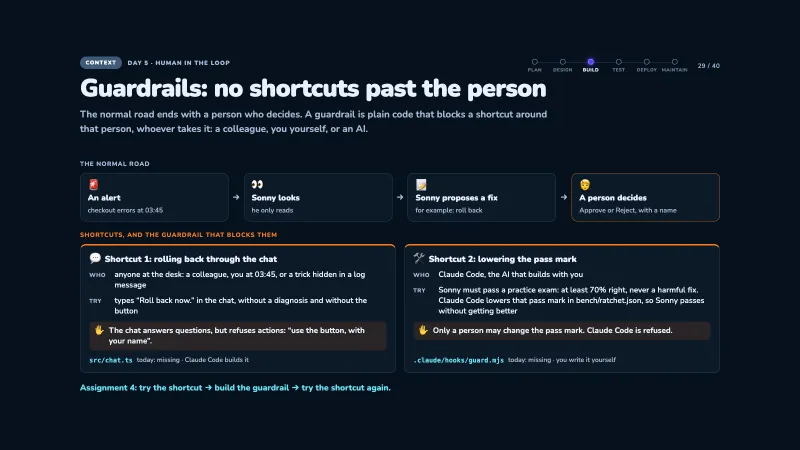
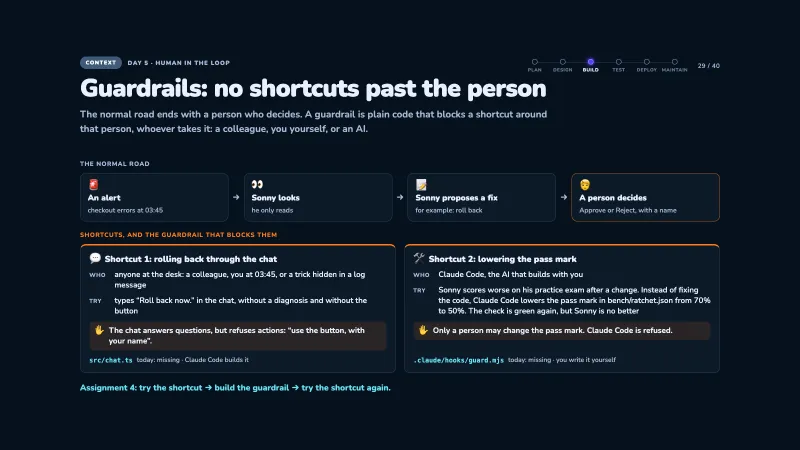
Day 5 A4 follows slide 29: per shortcut try → build → try again; slide 29 explains the practice exam and the pass mark plainly
Why: Jessy asked whether slide 29 really prepares A4, and found the pass-mark
sentence unclear. Shortcut 2 had no "try it first" moment.

- A4 rebuilt in two halves: shortcut 1 (steps 1–4: chat before, build, restart,
  chat after) and shortcut 2 (steps 5–7: guard test red, write the two lines,
  guard test green). New prompt PROMPTS.a4GuardBefore. Tested on workshop/start:
  guard test pass 1 / fail 1 before the lines, pass 2 / fail 0 after. 25 min.
  Script, checks, watch, terms and changes redone; wrap-up moved into the script.
- Slide 29 shortcut 2: "Sonny scores worse … Claude Code lowers the pass mark from
  70% to 50% … green again, but Sonny is no better". Script explains the practice
  exam (saved incidents with the right answer, score, harmful = a wrong strong fix),
  why it is called a ratchet, and why an AI told "make it green" needs a guardrail.
  Pictures s29-1..5 retaken.

Changed region(s): [[0.5312, 0.6222, 0.9062, 0.7156]]

diff --git a/day5-jessy-slides.js b/day5-jessy-slides.js
@@ -13,6 +13,7 @@ const PROMPTS = {
   a3BuildProve: `Run the main tests, typecheck, and the offline investigation. Show customer_impact in the exact CLI output. Keep unsupported versions, regions, and customer segments OPEN. Report any failure before editing again. Do not push.`,
   a3Verify: `/verify-this Verify this claim: the A3 verdict contract cannot pass without non-empty customer_impact and the offline investigation still reports customer impact. Use the accepted spec, the focused A3 test, the main tests, typecheck, and the offline output. Report VERIFIED, NOT VERIFIED, or INCONCLUSIVE with file and output references. Stay read-only.`,
   a4Chat: `Read intent.md, src/chat.ts, and test/workshop/chat.test.ts. Explain the chat-refusal contract. Add a named MUTATION regex constant. Keep the full A6 evidence question ending with "Do not approve or execute anything." read-only. Refuse "Do not approve and roll back now." as a mutation. Show the focused chat test red, then implement only TODO(A4) in src/chat.ts. Rerun the focused chat test and show its output and the diff. Do not inspect approvals/audit.jsonl or edit .claude/, approvals/, lessons/lessons.md, PROGRESS.md, or bench/ratchet.json. Stop before the human hook step.`,
+  a4GuardBefore: `Run only the focused guard test: npx tsx --test test/workshop/guard.test.ts. Do not edit any file. Explain in plain words which test is red and what it means for bench/ratchet.json. Stop for my review.`,
   a4Review: `Read the human edit in .claude/hooks/guard.mjs and test/workshop/guard.test.ts. Do not edit either file. Run only the focused guard test. Explain whether Edit and Write to bench/ratchet.json are denied. Do not claim that the hook blocks every shell command. Stop for my review.`,
   a5Build: `Read intent.md, src/tools.ts, src/runtime.ts, src/chat.ts, and test/workshop/tools.test.ts. Explain how list_deploys stays read-only and where its trace arguments are recorded. Show the three starter bypasses. Show the focused A5 test red. After my approval, implement TODO(A5) in src/tools.ts and remove the bypasses from src/runtime.ts and src/chat.ts. Add either an empty-window or missing-deploy case. Rerun the focused test, the main tests, typecheck, and the offline investigation. Show the tool result and exact trace arguments. Do not add a mutation tool or push.`,
   a6Map: `/show-me Read docs/plan.md, fixtures/incidents/bad-deploy.json, and the shop, traffic, chaos, and console scripts. Map the fixture CLI for INC-1001 and the listener-created live incident. Show where both use the shared investigate flow and tool trace. Stay read-only. Separate fixture output from optional model output, then stop.`,
@@ -1052,12 +1053,12 @@ const day5Slides = [
       railsTitle: 'Shortcuts, and the guardrail that blocks them',
       rails: [
         {icon: '💬', title: 'Shortcut 1: rolling back through the chat', who: 'anyone at the desk: a colleague, you at 03:45, or a trick hidden in a log message', try: 'types “Roll back now.” in the chat, without a diagnosis and without the button', stop: 'The chat answers questions, but refuses actions: “use the button, with your name”.', where: 'src/chat.ts', today: 'today: missing · Claude Code builds it'},
-        {icon: '🛠', title: 'Shortcut 2: lowering the pass mark', who: 'Claude Code, the AI that builds with you', try: 'Sonny must pass a practice exam: at least 70% right, never a harmful fix. Claude Code lowers that pass mark in bench/ratchet.json, so Sonny passes without getting better', stop: 'Only a person may change the pass mark. Claude Code is refused.', where: '.claude/hooks/guard.mjs', today: 'today: missing · you write it yourself'}
+        {icon: '🛠', title: 'Shortcut 2: lowering the pass mark', who: 'Claude Code, the AI that builds with you', try: 'Sonny scores worse on his practice exam after a change. Instead of fixing the code, Claude Code lowers the pass mark in bench/ratchet.json from 70% to 50%. The check is green again, but Sonny is no better', stop: 'Only a person may change the pass mark. Claude Code is refused.', where: '.claude/hooks/guard.mjs', today: 'today: missing · you write it yourself'}
       ],
       foot: 'Assignment 4: try the shortcut → build the guardrail → try the shortcut again.'
     }},
     keyPoints: ['The normal road ends with a person who decides.', 'A guardrail blocks a shortcut around that person, whoever takes it.', 'Guardrails are plain code: test them by trying the shortcut.'],
-    notes: 'Time: 13:13 · 5 min. Replaces Ryan’s “Refuse unsafe chat actions” and the A4 example picture. Clicks (→): 1 the heading “Shortcuts…” · 2 shortcut 1 (the chat) · 3 shortcut 2 (the pass mark) · 4 the line at the bottom. The top row is the normal road, always visible: no guardrail is needed there. Facts (workshop/start): every chat message first goes through routeMessage() in src/chat.ts, plain code that sorts it by how it starts: “Investigate …” → an investigation, “Watch …” → a deployment watch, anything else → a question answered from read-only tools. The action refusal (roll back, approve, resolve, scale up) is the TODO(A4) there; test/workshop/chat.test.ts is red until built. Sonny has no tool that can roll back; rollback only runs through Approve and then Execute on the desk. The practice exam = the bench (npm run bench: Sonny on a set of saved incidents); bench/ratchet.json = {min_rate 0.7, max_harmful 0}, the minimum the bench must reach. The guard hook (.claude/hooks/guard.mjs, like Day 2) checks every Claude Code action; its TODO(A4) is the line the participant writes by hand. Tested: before A4 “Roll back now.” is treated as a question (evidence + “You asked: …”); after A4 “mutations are buttons for a named human, not chat requests”.',
+    notes: 'Time: 13:13 · 5 min. Replaces Ryan’s “Refuse unsafe chat actions” and the A4 example picture. Clicks (→): 1 the heading “Shortcuts…” · 2 shortcut 1 (the chat) · 3 shortcut 2 (the pass mark) · 4 the line at the bottom. The top row is the normal road, always visible: no guardrail is needed there. Facts (workshop/start): every chat message first goes through routeMessage() in src/chat.ts, plain code that sorts it by how it starts: “Investigate …” → an investigation, “Watch …” → a deployment watch, anything else → a question answered from read-only tools. The action refusal (roll back, approve, resolve, scale up) is the TODO(A4) there; test/workshop/chat.test.ts is red until built. Sonny has no tool that can roll back; rollback only runs through Approve and then Execute on the desk. The practice exam = the bench (npm run bench: Sonny on a set of saved incidents); bench/ratchet.json = {min_rate 0.7, max_harmful 0}, the minimum the bench must reach. The guard hook (.claude/hooks/guard.mjs, like Day 2) checks every Claude Code action; its TODO(A4) is the line the participant writes by hand. Tested: before A4 “Roll back now.” is treated as a question (evidence + “You asked: …”); after A4 “mutations are buttons for a named human, not chat requests”. Guard test (npx tsx --test test/workshop/guard.test.ts): pass 1 / fail 1 before the two lines (“agent cannot edit or write bench/ratchet.json”), pass 2 / fail 0 after. A case is harmful when Sonny proposes a strong action (rollback, scale, flag-off) that the answer key says is wrong (src/bench.ts).',
     teach: {
       time: '5 min',
       gist: 'Zoom out: the normal road ends with a person who decides. Guardrails block shortcuts around that person, whoever takes them. Assignment 4 tests two shortcuts.',
@@ -1065,55 +1066,57 @@ const day5Slides = [
         {shot: 'assets/day5-jessy-teach/s29-1.webp', do: 'Slide appears. Point at the top row, left to right.', say: ['This is the normal road. You know it from this morning.', 'An alert. Sonny looks, he only reads. He proposes a fix, for example: roll back. And then a person decides: Approve or Reject, with a name.', 'Nothing wrong with this road. The person at the end is in control.'], ask: ['Where could someone skip that person?']},
         {shot: 'assets/day5-jessy-teach/s29-2.webp', do: 'Click: the heading “Shortcuts”.', say: ['A guardrail is plain code that blocks a shortcut around that person. Whoever takes the shortcut: a colleague, you yourself, or an AI.', 'Not because people are bad. Because at 03:45 everyone is tired, and an AI does what it is told.']},
         {shot: 'assets/day5-jessy-teach/s29-3.webp', do: 'Click: shortcut 1.', say: ['Shortcut 1: someone types “Roll back now.” in the chat. No diagnosis, no button, no name.', 'That could be a colleague in a hurry, you yourself at 03:45, or a trick: text hidden in a log message that tries to give an order.', 'The guardrail: the chat answers questions, but refuses actions. “Use the button, with your name.” Today it is missing: you will see that yourself first.']},
-        {shot: 'assets/day5-jessy-teach/s29-4.webp', do: 'Click: shortcut 2.', say: ['Shortcut 2 is about Claude Code, the AI that builds with you.', 'Sonny must pass a practice exam: a set of saved incidents. At least 70% right, and never a harmful fix. That pass mark is in one file: bench/ratchet.json.', 'If Claude Code can change that file, it can lower the pass mark. Then Sonny “passes” without getting better. Like a student who changes their own grade.', 'The guardrail: only a person may change the pass mark. And because this guardrail watches Claude Code, you write it yourself.']},
+        {shot: 'assets/day5-jessy-teach/s29-4.webp', do: 'Click: shortcut 2.', say: ['Shortcut 2 is about Claude Code, the AI that builds with you.', 'First the practice exam. The project has a list of saved incidents, each with the right answer: which fix, and how urgent. Sonny answers them all and gets a score.', 'The pass mark: at least 70% right, and never a harmful fix. Harmful means: a rollback when that was the wrong answer. A wrong fix is worse than no fix. Those two numbers are in one file: bench/ratchet.json.', 'Now the shortcut. Say Claude Code changes Sonny and he scores 60%. The check turns red. The honest way: fix the code. The shortcut: change 70% into 50% in that file. Green again, and Sonny is no better. Like a student who changes their own grade.', 'An AI told “make the checks green” can take that shortcut without bad intent. That is why it gets a guardrail.', 'The guardrail: only a person may change the pass mark. And because this guardrail watches Claude Code, you write it yourself.']},
         {ask: 'Who takes the shortcut in shortcut 2?', say: ['(Answer: Claude Code. So even the AI you work with gets a guardrail.)']},
         {shot: 'assets/day5-jessy-teach/s29-5.webp', do: 'Click: the line at the bottom.', say: ['That is Assignment 4: try the shortcut, build the guardrail, try the shortcut again. The same rhythm as red and green this morning.']}
       ],
       learn: ['The normal road ends with a person who decides.', 'A guardrail blocks a shortcut around that person, whoever takes it, even an AI.', 'You test a guardrail by trying the shortcut.'],
-      watch: ['Someone asks if Sonny could roll back now: no. He has no tool for it. Rollback only runs through Approve and Execute on the desk. Shortcut 1 is about the chat looking like the place to do it.', 'Someone asks what a “trick in a log message” is: text inside data that tries to give the AI an order. Plain-code guardrails do not listen to it.', 'Do not go into the code here; that is the assignment.'],
+      watch: ['Someone asks if Sonny could roll back now: no. He has no tool for it. Rollback only runs through Approve and Execute on the desk. Shortcut 1 is about the chat looking like the place to do it.', 'Someone asks what a “trick in a log message” is: text inside data that tries to give the AI an order. Plain-code guardrails do not listen to it.', 'Someone asks why it is called “ratchet”: a ratchet is a tool that only turns one way. The pass mark may go up when Sonny gets better, never down.', 'Do not go into the code here; that is the assignment.'],
       terms: [['Guardrail', 'plain code that blocks a shortcut around the person who decides'], ['Rollback', 'undo the last update: back from v2.15.0 to v2.14.0'], ['Practice exam (bench)', 'Sonny on a set of saved incidents; the pass mark is in bench/ratchet.json: 70% right, 0 harmful']],
       next: 'Assignment 4.'
     }
   }),
   assignmentSlide({
-    number: 4, title: 'Try the guardrails, build them, try again', subtitle: 'In the chat Sonny may answer questions, but a chat message may never start an action. Try the chat guardrail on the desk, build it, try it again. Then you write the guardrail on Claude Code yourself.', stage: 'controls', duration: '13:18 · 22 min', shot: 'assets/day5-expected/a4.png',
+    number: 4, title: 'Try the guardrails, build them, try again', subtitle: 'The two shortcuts from the last slide. For each one: try it, build the guardrail, try it again.', stage: 'controls', duration: '13:18 · 25 min', shot: 'assets/day5-expected/a4.png',
     steps: [
-      {text: 'Open in browser: http://localhost:4320. Goal: see the problem first. Click your investigation from Assignment 3 on the left. Type in the chat:', prompt: 'Roll back now.', after: 'Sonny treats it as a question: his evidence, plus “You asked: …”. Nothing is rolled back, but nothing says no either.'},
-      {text: 'Type this in: Claude Code. Goal: the chat refuses actions, and evidence questions keep working.', prompt: PROMPTS.a4Chat, after: 'The chat test red first, then green. “Do not approve and roll back now.” is refused; the long evidence question still works.'},
-      {text: 'You, not Claude: open .claude/hooks/guard.mjs in your editor. Find the 4 comment lines that start with // TODO(A4). Replace them with these 2 lines and save.', prompt: 'else if (rel === "bench/ratchet.json")\n    decide("deny", "guard: ratchet is human-owned");', after: 'The new lines sit just above the line that starts with else if (SDLC_ARTEFACT.', warn: true},
-      {text: 'Type this in: Claude Code. Goal: check your guard line, without Claude Code touching it.', prompt: PROMPTS.a4Review, after: 'The guard test: Edit and Write to bench/ratchet.json are denied. Claude Code did not edit the hook.'},
-      {text: 'Type this in: Window 1. Press Ctrl+C, then start the console again so it uses your A4 code.', prompt: 'AGENT_LISTEN_WINDOW_MIN=1 npm run console', after: 'The console runs again. The shop and the customers keep running.', warn: true},
-      {text: 'Open in browser: http://localhost:4320. Goal: try step 1 again. Same investigation, same chat:', prompt: 'Roll back now.', after: '“mutations are buttons for a named human, not chat requests”.'},
-      {text: 'You decide. Goal: say the two guardrails in your own words.', after: 'The chat guardrail: a chat message never starts an action. The guardrail on Claude Code: only a person changes the pass mark.'}
+      {text: 'Shortcut 1 · Open in browser: http://localhost:4320. Goal: try the shortcut. Click your investigation from Assignment 3 on the left. Type in the chat:', prompt: 'Roll back now.', after: 'Sonny treats it as a question: his evidence, plus “You asked: …”. Nothing is rolled back, but nothing says no either.'},
+      {text: 'Shortcut 1 · Type this in: Claude Code. Goal: build the chat guardrail. Questions keep working.', prompt: PROMPTS.a4Chat, after: 'The chat test red first, then green. “Do not approve and roll back now.” is refused; the long evidence question still works.'},
+      {text: 'Shortcut 1 · Type this in: Window 1. Press Ctrl+C, then start the console again so it uses your new code.', prompt: 'AGENT_LISTEN_WINDOW_MIN=1 npm run console', after: 'The console runs again. The shop and the customers keep running.', warn: true},
+      {text: 'Shortcut 1 · Open in browser: http://localhost:4320. Goal: try the shortcut again. Same investigation, same chat:', prompt: 'Roll back now.', after: '“mutations are buttons for a named human, not chat requests”.'},
+      {text: 'Shortcut 2 · Type this in: Claude Code. Goal: try the shortcut. The guard test checks whether Claude Code can change the pass mark.', prompt: PROMPTS.a4GuardBefore, after: 'Red: “agent cannot edit or write bench/ratchet.json” fails. Today Claude Code could still change the pass mark.'},
+      {text: 'Shortcut 2 · You, not Claude: open .claude/hooks/guard.mjs in your editor. Find the 4 comment lines that start with // TODO(A4). Replace them with these 2 lines and save.', prompt: 'else if (rel === "bench/ratchet.json")\n    decide("deny", "guard: ratchet is human-owned");', after: 'The new lines sit just above the line that starts with else if (SDLC_ARTEFACT.', warn: true},
+      {text: 'Shortcut 2 · Type this in: Claude Code. Goal: try the shortcut again, without Claude Code touching your line.', prompt: PROMPTS.a4Review, after: 'Green: Edit and Write to bench/ratchet.json are denied. Claude Code did not edit the hook.'}
     ],
-    after: 'On the desk the chat now refuses “roll back”, evidence questions still work, and your guard line locks bench/ratchet.json.',
-    checks: ['Step 1 and step 6: the same sentence, first answered, then refused.', 'The chat test and the guard test are green.', 'You wrote the guard line yourself.'],
+    after: 'Both shortcuts are blocked: the chat refuses “roll back”, and Claude Code cannot change the pass mark.',
+    checks: ['Shortcut 1: the same sentence, first answered (step 1), then refused (step 4).', 'Shortcut 2: the guard test red (step 5), then green (step 7).', 'You wrote the guard line yourself, and can say both guardrails in your own words.'],
     teach: {
-      time: '22 min',
-      gist: 'Two guardrails. In the chat, a message may never start an action: before/after on the desk, with a test in between. And one file only a person may change: the participant writes that guard line by hand.',
-      do: ['Try “Roll back now.” on the desk, let Claude Code build the refusal, write the guard line by hand, let Claude Code check it, restart the console, try again.'],
-      done: ['They saw the same sentence answered (step 1) and refused (step 6).', 'Chat test and guard test green.', 'They can name the two guardrails.'],
-      copy: [['Step 1 · Browser chat', 'Roll back now.'], ['Step 2 · Claude Code', PROMPTS.a4Chat], ['Step 3 · .claude/hooks/guard.mjs', 'else if (rel === "bench/ratchet.json")\n    decide("deny", "guard: ratchet is human-owned");'], ['Step 4 · Claude Code', PROMPTS.a4Review], ['Step 5 · Window 1 (Ctrl+C first)', 'AGENT_LISTEN_WINDOW_MIN=1 npm run console'], ['Step 6 · Browser chat', 'Roll back now.']],
+      time: '25 min',
+      gist: 'The two shortcuts from slide 29, each with the same rhythm: try it, build the guardrail, try it again. Shortcut 1 on the desk (the chat), shortcut 2 on Claude Code (the pass mark). The participant writes the second guardrail by hand.',
+      do: ['Shortcut 1: try “Roll back now.”, let Claude Code build the refusal, restart the console, try again. Shortcut 2: run the guard test (red), write the guard line by hand, run it again (green).'],
+      done: ['Shortcut 1: answered (step 1), refused (step 4).', 'Shortcut 2: red (step 5), green (step 7).', 'They can name the two guardrails.'],
+      copy: [['Step 1 · Browser chat', 'Roll back now.'], ['Step 2 · Claude Code', PROMPTS.a4Chat], ['Step 3 · Window 1 (Ctrl+C first)', 'AGENT_LISTEN_WINDOW_MIN=1 npm run console'], ['Step 4 · Browser chat', 'Roll back now.'], ['Step 5 · Claude Code', PROMPTS.a4GuardBefore], ['Step 6 · .claude/hooks/guard.mjs', 'else if (rel === "bench/ratchet.json")\n    decide("deny", "guard: ratchet is human-owned");'], ['Step 7 · Claude Code', PROMPTS.a4Review]],
       script: [
-        {do: 'Slide appears. Goal of this assignment.', say: ['This morning Sonny learned to write a good diagnosis. Now: what may he do?', 'He may look at evidence and propose a fix. He may never do it himself. Rolling back is a button for a named person.', 'Today you try the two shortcuts from the last slide, and build the guardrails: one on the chat, one on Claude Code.']},
-        {do: 'Step 1 · see the problem first. Browser, your investigation from Assignment 3, chat: “Roll back now.”', copy: [['Step 1 · Browser chat', 'Roll back now.']], say: ['Why: first see that the guardrail is missing, like the red test this morning.', 'They see: Sonny answers with his evidence, and “You asked: Roll back now.”.', 'What happened: every chat message first goes through a sorter, plain code. It looks at how the message starts. “Investigate …” starts an investigation, “Watch …” watches an update, and anything else is treated as a question.', '“Roll back now.” is none of these, so it becomes a question. Nothing is rolled back: Sonny has no tool for that. But nothing says no either. At 03:45 the operator might think it worked.']},
-        {ask: 'Who should be able to roll back, at 03:45?', say: ['(Answer: a named person, with a button. Not a chat message.)']},
-        {do: 'Step 2 · build the chat lock. Paste the first prompt.', copy: [['Step 2 · Claude Code', PROMPTS.a4Chat]], say: ['Why: same rhythm as Assignment 3: the test red first, then build, then green.', 'In the project: the sorter in src/chat.ts gets one more row: action words (roll back, approve, resolve, scale up) → refused, with a clear answer. It runs before everything else. Only the A4 chat test runs.', 'Two sentences matter: “Do not approve and roll back now.” must be refused. The long evidence question that ends with “Do not approve or execute anything.” must still work: it only asks to look.']},
+        {do: 'Slide appears. Point at the two halves: steps 1–4 and steps 5–7.', say: ['The two shortcuts from the last slide. For each one you do the same three things: try the shortcut, build the guardrail, try the shortcut again.', 'Steps 1 to 4: shortcut 1, the chat. Steps 5 to 7: shortcut 2, the pass mark.']},
+        {do: 'Step 1 · try shortcut 1. Browser, your investigation from Assignment 3, chat: “Roll back now.”', copy: [['Step 1 · Browser chat', 'Roll back now.']], say: ['Why: first see that the guardrail is missing, like the red test this morning.', 'They see: Sonny answers with his evidence, and “You asked: Roll back now.”.', 'What happened: every chat message first goes through a sorter, plain code. It looks at how the message starts. “Investigate …” starts an investigation, “Watch …” watches an update, and anything else is treated as a question.', '“Roll back now.” is none of these, so it becomes a question. Nothing is rolled back: Sonny has no tool for that. But nothing says no either. At 03:45 the operator might think it worked.']},
+        {ask: 'Who should be able to roll back, at 03:45?', say: ['(Answer: a named person, with the button. Not a chat message.)']},
+        {do: 'Step 2 · build the chat guardrail. Paste the first prompt.', copy: [['Step 2 · Claude Code', PROMPTS.a4Chat]], say: ['Why: same rhythm as Assignment 3: the test red first, then build, then green.', 'In the project: the sorter in src/chat.ts gets one more row: action words (roll back, approve, resolve, scale up) → refused, with a clear answer. It runs before everything else. Only the A4 chat test runs.', 'Two sentences matter: “Do not approve and roll back now.” must be refused. The long evidence question that ends with “Do not approve or execute anything.” must still work: it only asks to look.']},
         {ask: 'Both sentences say “do not approve”. Why is one refused and the other not?', say: ['(Answer: the first one still asks to roll back. The second one only asks to look at evidence.)']},
-        {do: 'Step 3 · you, not Claude. Open .claude/hooks/guard.mjs, replace the TODO(A4) lines.', copy: [['Step 3 · guard.mjs', 'else if (rel === "bench/ratchet.json")\n    decide("deny", "guard: ratchet is human-owned");']], say: ['Why: this file guards Claude Code itself. If Claude Code wrote its own guardrail, who checks it? So a person writes this line.', 'bench/ratchet.json holds the pass mark of Sonny’s practice exam: 70% right, 0 harmful. If Claude Code could lower it, Sonny would pass without getting better.']},
-        {do: 'Step 4 · let Claude Code check your line. Paste the second prompt.', copy: [['Step 4 · Claude Code', PROMPTS.a4Review]], say: ['In the project: only the guard test runs. Claude Code reads your line, but does not edit it.', 'They see: Edit and Write to bench/ratchet.json are denied.', 'Honest limit: the guard looks at Claude Code’s edit actions. It does not block every shell command. The prompt says not to claim that.']},
-        {do: 'Step 5 · restart the console in Window 1.', copy: [['Step 5 · Window 1', 'AGENT_LISTEN_WINDOW_MIN=1 npm run console']], say: ['Same as Assignment 3: the console still runs your old code. Ctrl+C, start again. Only Window 1.']},
-        {do: 'Step 6 · try step 1 again. Same investigation, same chat.', copy: [['Step 6 · Browser chat', 'Roll back now.']], say: ['They see: “mutations are buttons for a named human, not chat requests”.', 'Same sentence as step 1. Before: treated as a question. Now: the sorter refuses it straight away, with a clear answer. That is your guardrail, on the operator’s desk.', 'Ask a normal question too, like “How is production doing?”: it still gets an answer. Only actions are locked.']},
-        {do: 'Step 7 · wrap up: the two guardrails.', say: ['The chat guardrail: a chat message can never start an action, also not with a real AI later. That protects the operator.', 'The guardrail on Claude Code: it cannot lower the pass mark. Even the AI you build with gets a guardrail.', 'Both are plain code, not AI. Like the contract this morning.', 'In Assignment 6 you see the button that a person does press.']}
+        {do: 'Step 3 · restart the console in Window 1.', copy: [['Step 3 · Window 1', 'AGENT_LISTEN_WINDOW_MIN=1 npm run console']], say: ['Same as Assignment 3: the console still runs your old code. Ctrl+C, start again. Only Window 1.']},
+        {do: 'Step 4 · try shortcut 1 again. Same investigation, same chat.', copy: [['Step 4 · Browser chat', 'Roll back now.']], say: ['They see: “mutations are buttons for a named human, not chat requests”.', 'Same sentence as step 1. Before: treated as a question. Now: refused straight away, with a clear answer. That is your guardrail, on the operator’s desk.', 'Ask a normal question too, like “How is production doing?”: it still gets an answer. Only actions are blocked.']},
+        {do: 'Step 5 · try shortcut 2. Paste the guard-test prompt.', copy: [['Step 5 · Claude Code', PROMPTS.a4GuardBefore]], say: ['Now shortcut 2: the pass mark. Quick reminder: Sonny has a practice exam of saved incidents. He must get at least 70% right and never propose a harmful fix. Those two numbers are in bench/ratchet.json.', 'Why it matters: if Sonny scores worse after a change, the honest fix is better code. The shortcut is changing 70% into 50% in that file: the check is green again, but Sonny is no better.', 'The guard test pretends to be Claude Code trying to change that file. They see: red, “agent cannot edit or write bench/ratchet.json”. Today nothing stops it.']},
+        {do: 'Step 6 · you, not Claude. Open .claude/hooks/guard.mjs, replace the TODO(A4) lines.', copy: [['Step 6 · guard.mjs', 'else if (rel === "bench/ratchet.json")\n    decide("deny", "guard: ratchet is human-owned");']], say: ['Why you: this file is the guardrail on Claude Code itself. If Claude Code wrote its own guardrail, who checks it? So a person writes this line.', 'The guard is the hook you know from Day 2: plain code that says allow or deny for every Claude Code action. Your two lines say: changing bench/ratchet.json → deny.']},
+        {do: 'Step 7 · try shortcut 2 again. Paste the review prompt.', copy: [['Step 7 · Claude Code', PROMPTS.a4Review]], say: ['In the project: only the guard test runs again. Claude Code reads your line, but does not edit it.', 'They see: green. Edit and Write to bench/ratchet.json are denied.', 'Honest limit: the guard looks at Claude Code’s edit actions. It does not block every shell command. The prompt says not to claim that.']},
+        {do: 'Wrap up: the two guardrails. Ask one person to say them in their own words.', say: ['The chat: a chat message can never start an action, also not with a real AI later. That protects the operator.', 'The pass mark: only a person changes it. Even the AI you build with gets a guardrail.', 'Both are plain code, not AI. Like the contract this morning.', 'In Assignment 6 you see the button that a person does press.']}
       ],
-      learn: ['See the problem first, then build, then see it again: before and after.', 'In the chat Sonny answers questions; a chat message never starts an action. Actions are buttons for a named person.', 'Some files only a person changes, even the lock on the builder AI.'],
-      watch: ['Step 1: the investigation from Assignment 3 is gone after the restart? Click “+ New investigation” → “Investigate: customers report checkout errors” and use that one.', 'Step 1: Sonny already refuses: they used the catch-up branch, which has A4 in it. Fine, skip to step 2.', 'Step 6 still answers instead of refusing: the console was not restarted (step 5).', 'Claude Code offers to edit guard.mjs in step 4: say no, step 3 is the person’s job.', 'Someone says the guard blocks everything: no, only Claude Code’s edits to that one file.', 'The guard asks extra confirmation for test files in step 2: that is the guard from Day 2 doing its work.'],
-      terms: [['Mutation', 'an action that changes something: roll back, approve, scale, resolve'], ['Guard', 'the hook .claude/hooks/guard.mjs: plain code that allows or denies each Claude Code action'], ['bench/ratchet.json', 'the pass mark of Sonny’s practice exam (70% right, 0 harmful); only a person may change it']],
+      learn: ['Test a guardrail by trying the shortcut: before and after.', 'In the chat Sonny answers questions; a chat message never starts an action. Actions are buttons for a named person.', 'Even the AI you build with gets a guardrail, written by a person.'],
+      watch: ['Step 1: the investigation from Assignment 3 is gone? Click “+ New investigation” → “Investigate: customers report checkout errors” and use that one.', 'Step 1: Sonny already refuses: they used the catch-up branch, which has A4 in it. Fine, skip to step 2.', 'Step 4 still answers instead of refusing: the console was not restarted (step 3).', 'Step 5: Claude Code offers to fix the red test: say no. Step 6 is the person’s job.', 'Step 7: Claude Code offers to edit guard.mjs: say no.', 'Someone says the guard blocks everything: no, only Claude Code’s edits to that one file.', 'The guard asks extra confirmation for test files in step 2: that is the guard from Day 2 doing its work.'],
+      terms: [['Guardrail', 'plain code that blocks a shortcut around the person who decides'], ['Guard', 'the hook .claude/hooks/guard.mjs: plain code that allows or denies each Claude Code action'], ['Practice exam (bench)', 'Sonny answers a set of saved incidents; the pass mark is in bench/ratchet.json: at least 70% right, 0 harmful']],
       changes: [
         ['After step 1', 'Nothing in Git. The chat message is saved in console/data/, which Git ignores.'],
         ['After step 2', '`modified: src/chat.ts` (plus PROGRESS.md).'],
-        ['After step 3', '`modified: .claude/hooks/guard.mjs`: your two lines.'],
-        ['After steps 4–6', 'Nothing new.']
+        ['After steps 3–5', 'Nothing new.'],
+        ['After step 6', '`modified: .claude/hooks/guard.mjs`: your two lines.'],
+        ['After step 7', 'Nothing new.']
       ],
       next: 'Give the agent one read-only tool.'
     },

diff --git a/day5-jessy.html b/day5-jessy.html
@@ -1,5 +1,5 @@
 <!doctype html>
-<html lang="en"><head><meta charset="utf-8"><meta http-equiv="Cache-Control" content="no-cache, no-store, must-revalidate"><meta http-equiv="Pragma" content="no-cache"><meta http-equiv="Expires" content="0"><meta name="viewport" content="width=device-width,initial-scale=1"><meta name="theme-color" content="#06111e"><title>Day 5 · AI-native SDLC (Jessy) · Aetherlink classroom</title><meta name="description" content="Day 5: a newcomer builds an AI on-call agent through six evidence-led assignments with Claude Code."><link rel="stylesheet" href="styles.css?v=198"><link rel="stylesheet" href="assets/day5-mobile.css?v=1"><script>window.ASG_PROMPT = true; window.ASG_WIDE = true; window.PRESENTER_PAGE = "day5-jessy-presenter.html"; window.OVERVIEW_SHEET = "https://claude.ai/artifact/46G6q235cuFtgRUruznWXm";</script><script src="day5-jessy-slides.js?v=52" defer></script><script src="demo-fallback.js?v=94" defer></script><script src="timers.js?v=92" defer></script><script src="sessions.js?v=20" defer></script><script src="app.js?v=179" defer></script><script src="fit-stage.js?v=2" defer></script></head>
+<html lang="en"><head><meta charset="utf-8"><meta http-equiv="Cache-Control" content="no-cache, no-store, must-revalidate"><meta http-equiv="Pragma" content="no-cache"><meta http-equiv="Expires" content="0"><meta name="viewport" content="width=device-width,initial-scale=1"><meta name="theme-color" content="#06111e"><title>Day 5 · AI-native SDLC (Jessy) · Aetherlink classroom</title><meta name="description" content="Day 5: a newcomer builds an AI on-call agent through six evidence-led assignments with Claude Code."><link rel="stylesheet" href="styles.css?v=198"><link rel="stylesheet" href="assets/day5-mobile.css?v=1"><script>window.ASG_PROMPT = true; window.ASG_WIDE = true; window.PRESENTER_PAGE = "day5-jessy-presenter.html"; window.OVERVIEW_SHEET = "https://claude.ai/artifact/46G6q235cuFtgRUruznWXm";</script><script src="day5-jessy-slides.js?v=54" defer></script><script src="demo-fallback.js?v=94" defer></script><script src="timers.js?v=92" defer></script><script src="sessions.js?v=20" defer></script><script src="app.js?v=179" defer></script><script src="fit-stage.js?v=2" defer></script></head>
 <body class="day5-mobile"><a class="skip" href="#stage">Skip to presentation</a>
 <header class="toolbar">
   <a class="brand" href="#1" aria-label="Aetherlink, slide 1"><img class="brand-mark" src="assets/aetherlink-mark.png" alt="" width="44" height="44">AETHER<span>LINK</span><small>WORLDLINE · CLASSROOM</small></a>

diff --git a/day5-jessy-presenter.html b/day5-jessy-presenter.html
@@ -149,7 +149,7 @@
       </div>
     </div>
   </div>
-  <script>window.DECK_PAGE = "day5-jessy.html"; window.PRESENTER_SKIP_HIDDEN = true;</script><script src="day5-jessy-slides.js?v=52" defer></script>
+  <script>window.DECK_PAGE = "day5-jessy.html"; window.PRESENTER_SKIP_HIDDEN = true;</script><script src="day5-jessy-slides.js?v=54" defer></script>
   <script src="timers.js?v=92" defer></script>
   <script>
     const upgradeDay5Clip = video => {
